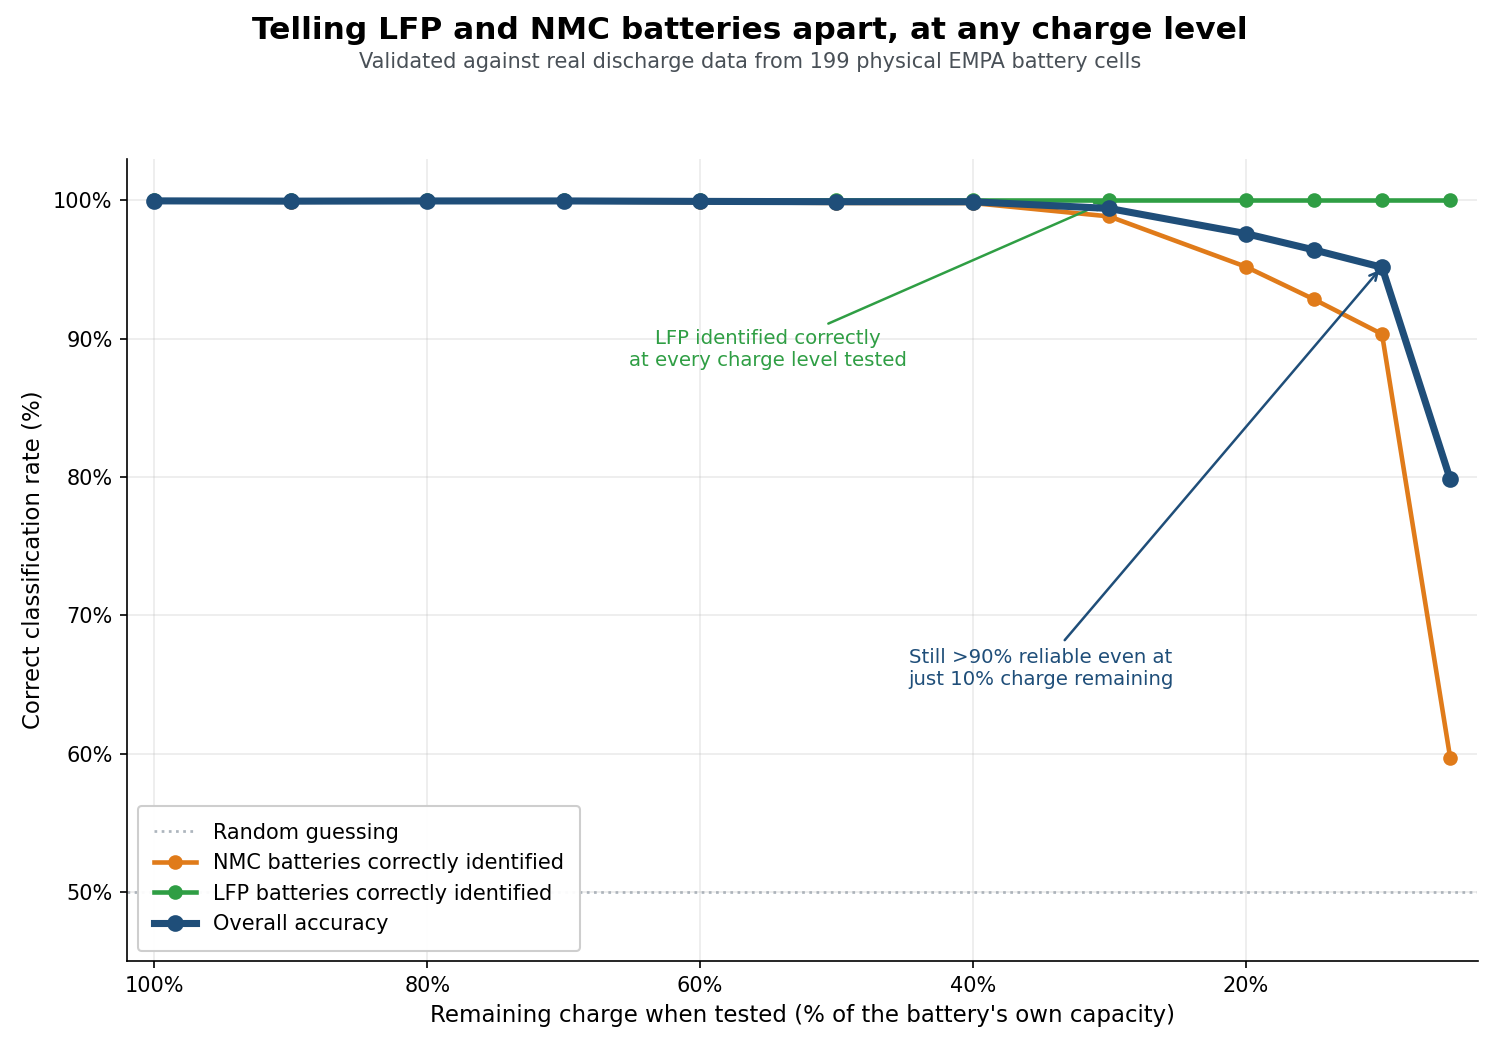
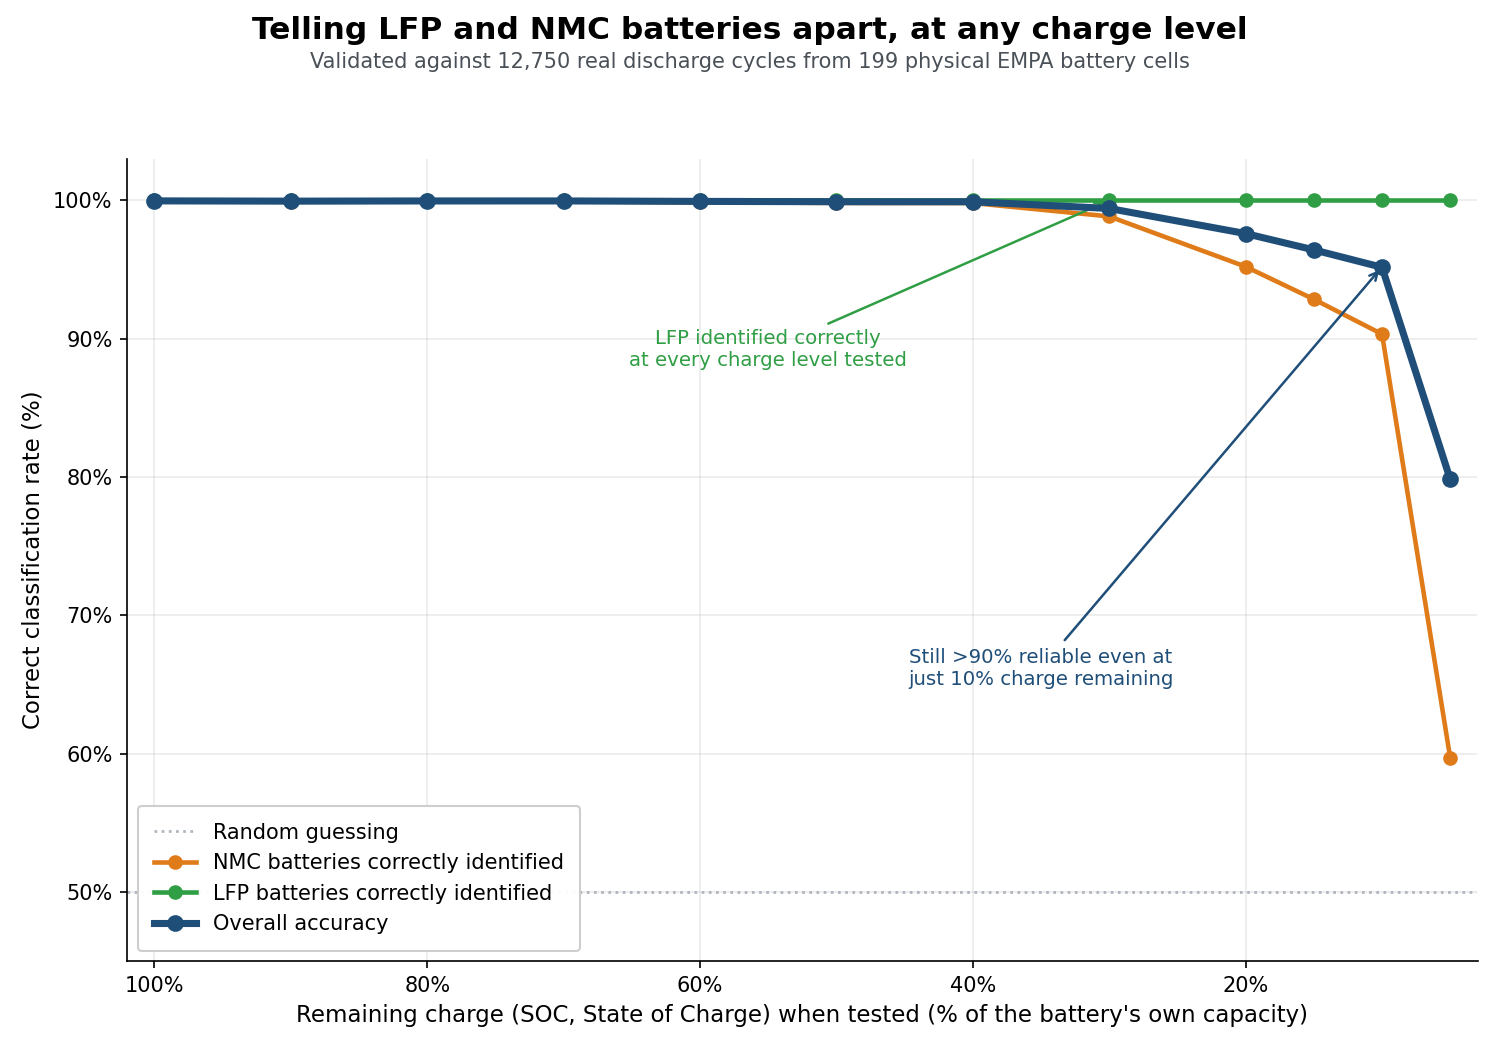
optimize_empa_low_soc attempt 05: add cycle count and SOC term to stakeholder plot
X-axis label now names the SOC (State of Charge) term explicitly.
Subtitle and RESULTS.md caption now state the dataset's actual cycle
count: 12,750 real discharge cycles (the distinct physical charge/
discharge events), not the 151,074 figure from earlier logs, which
double-counts each cycle once per SOC truncation point -- confirmed
directly against the real data CSV (151,074 unique Variation_IDs vs.
12,750 unique cell+cycle pairs before SOC truncation).

Changed region(s): [[0.2147, 0.0305, 0.7973, 0.0914], [0.184, 0.9448, 0.8587, 0.9752]]

diff --git a/optimize_empa_low_soc/experiment/05_stable_median_reference/make_plot.py b/optimize_empa_low_soc/experiment/05_stable_median_reference/make_plot.py
@@ -68,7 +68,7 @@ def main():
                 fontsize=9.5, color=COLOR_OVERALL, ha="center",
                 arrowprops=dict(arrowstyle="->", color=COLOR_OVERALL, lw=1.2))
 
-    ax.set_xlabel("Remaining charge when tested (% of the battery's own capacity)", fontsize=11)
+    ax.set_xlabel("Remaining charge (SOC, State of Charge) when tested (% of the battery's own capacity)", fontsize=11)
     ax.set_ylabel("Correct classification rate (%)", fontsize=11)
 
     ax.set_xlim(102, 3)
@@ -84,7 +84,7 @@ def main():
     fig.suptitle("Telling LFP and NMC batteries apart, at any charge level",
                  fontsize=15, fontweight="bold", y=0.985)
     fig.text(0.5, 0.935,
-             "Validated against real discharge data from 199 physical EMPA battery cells",
+             "Validated against 12,750 real discharge cycles from 199 physical EMPA battery cells",
              ha="center", fontsize=10, color="#495057")
 
     plt.tight_layout(rect=(0, 0, 1, 0.92))

diff --git a/optimize_empa_low_soc/experiment/05_stable_median_reference/RESULTS.md b/optimize_empa_low_soc/experiment/05_stable_median_reference/RESULTS.md
@@ -2,7 +2,7 @@
 
 ## For stakeholders
 
-![LFP batteries are identified correctly at every charge level tested; NMC detection stays above 90% down to 10% remaining charge, then drops to 60% at 5%; overall accuracy stays above 95% down to 10% charge remaining](outputs/plots/stakeholder_summary.png)
+![LFP batteries are identified correctly at every charge level (SOC) tested; NMC detection stays above 90% down to 10% remaining charge, then drops to 60% at 5%; overall accuracy stays above 95% down to 10% charge remaining. Validated against 12,750 real discharge cycles from 199 physical EMPA battery cells](outputs/plots/stakeholder_summary.png)
 
 LFP batteries are identified correctly at every charge level tested, no
 exceptions. NMC detection is what limits performance at very low
